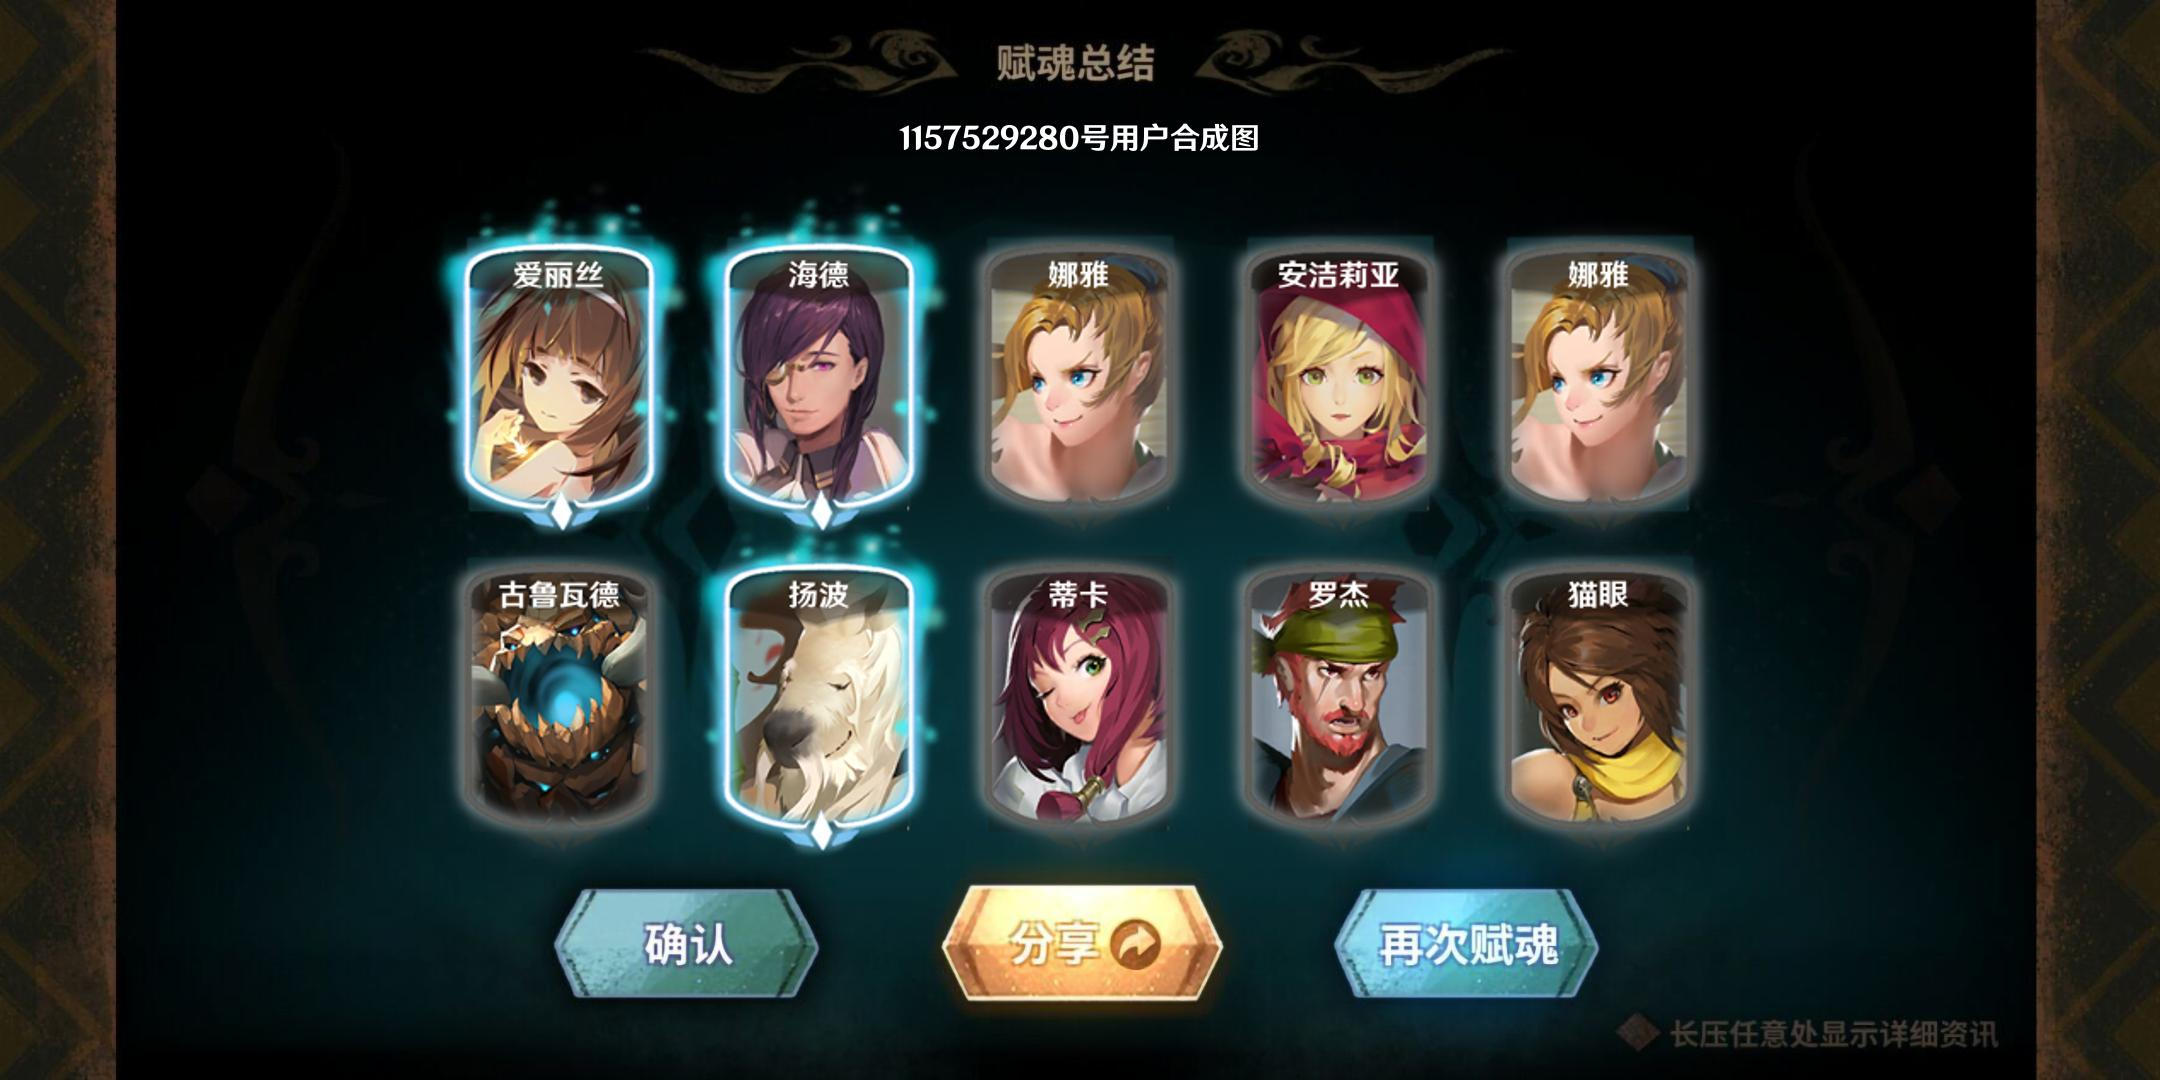
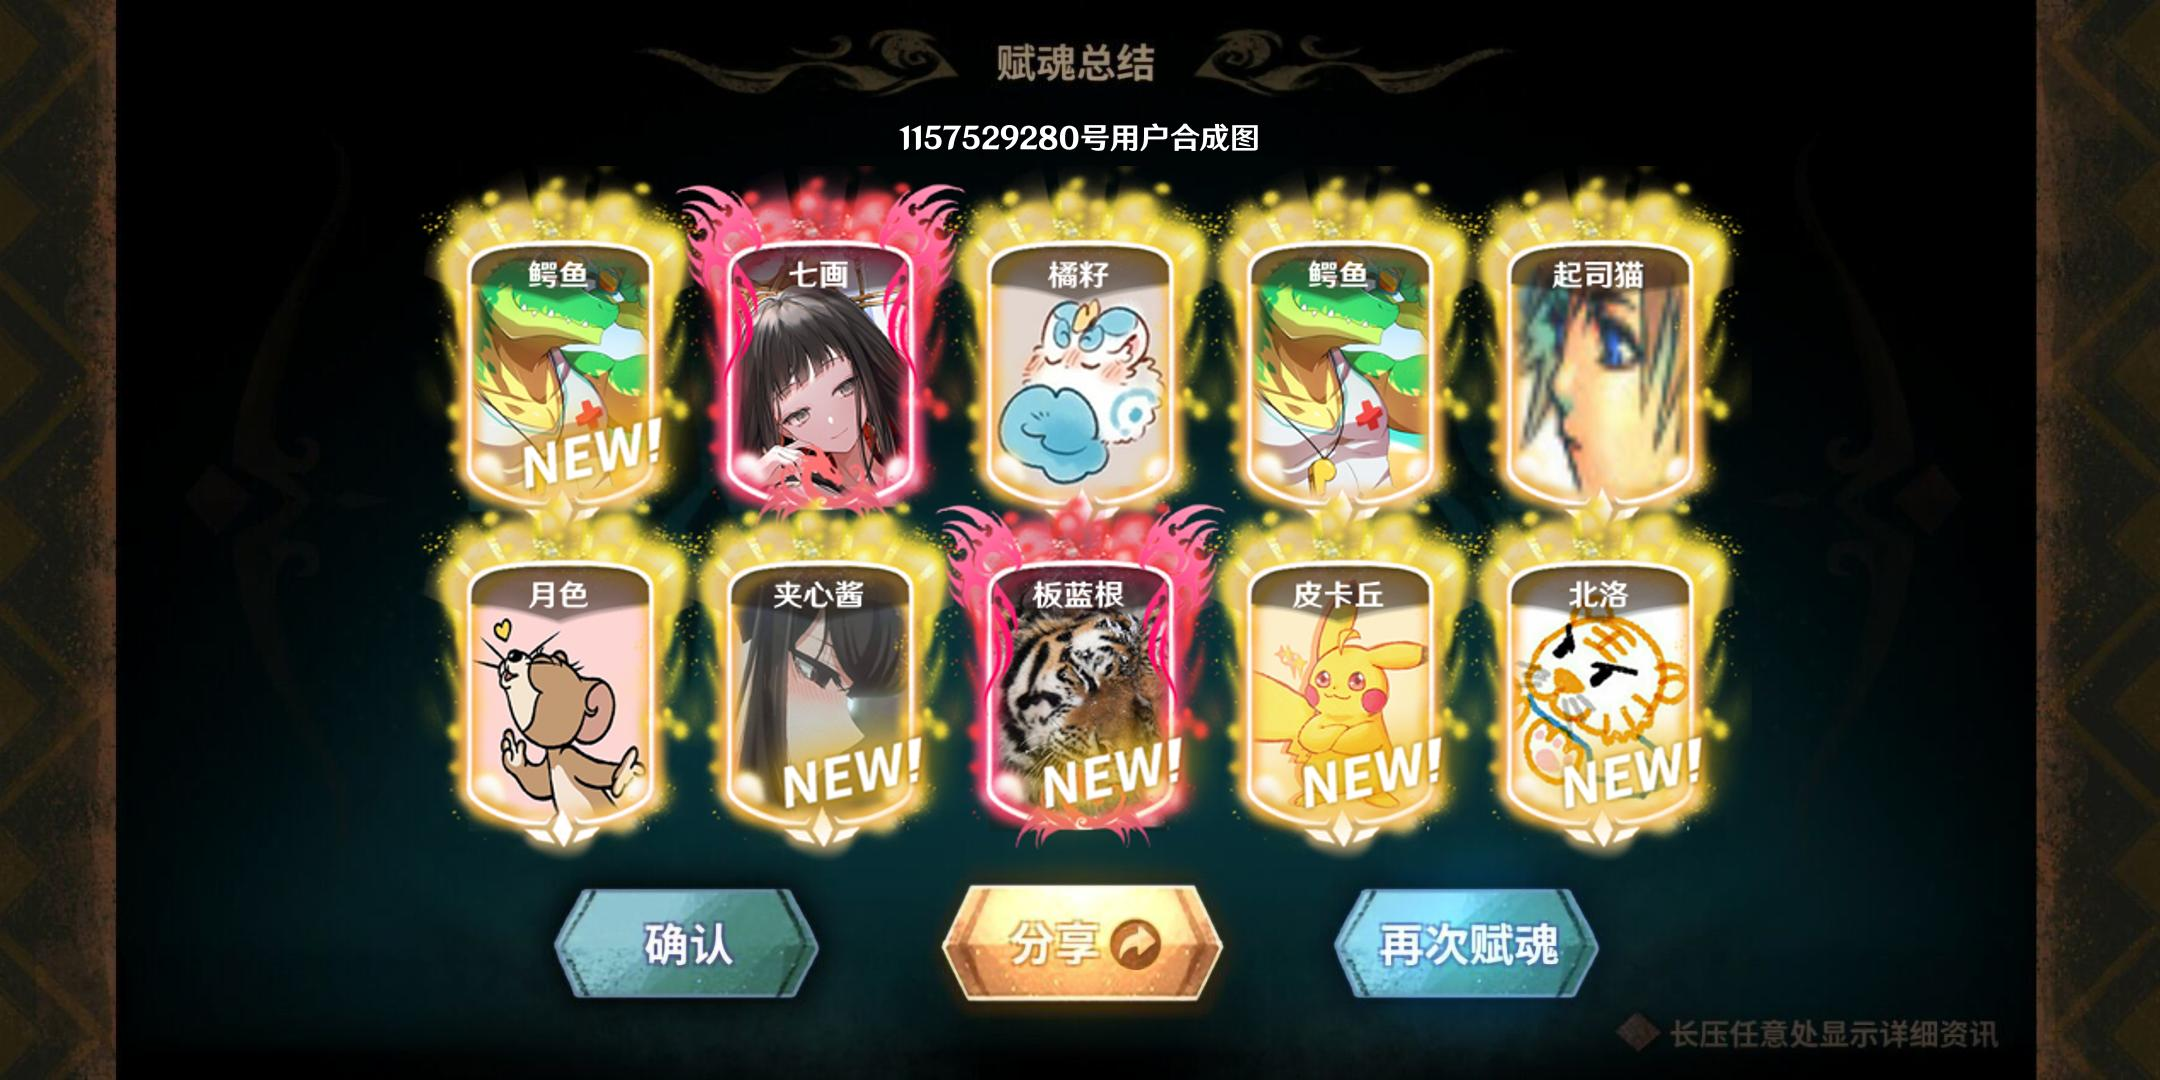
更新卡池指令：群友十连，更新21位群友

diff --git a/src/plugins/function/sdorica_draw/__init__.py b/src/plugins/function/sdorica_draw/__init__.py
@@ -2,7 +2,7 @@
 Author: 七画一只妖
 Date: 2022-03-16 18:36:16
 LastEditors: 七画一只妖
-LastEditTime: 2022-03-16 21:34:27
+LastEditTime: 2022-03-17 21:29:31
 Description: file content
 '''
 from .function_user import start
@@ -18,6 +18,7 @@ qy_sdorica_draw = on_command("起源十连")
 ss_sdorica_draw = on_command("盛夏十连")
 sd_sdorica_draw = on_command("限定十连")
 sf_sdorica_draw = on_command("首发十连")
+hp_sdorica_draw = on_command("-群友十连")
 
 
 @qy_sdorica_draw.handle()
@@ -82,3 +83,19 @@ async def _(bot:Bot,event: GroupMessageEvent):
             await sf_sdorica_draw.send(MessageSegment.image(re))
     else:
         await sf_sdorica_draw.send("出现了一点问题，请联系开发者七画")
+
+
+@hp_sdorica_draw.handle()
+async def _(bot:Bot,event: GroupMessageEvent):
+    if not is_level_S(event):
+        await hp_sdorica_draw.finish()
+    user_id = str(event.user_id)
+    re = start(user_id,"群友十连")
+    if re:
+        # await sf_sdorica_draw.send(re)
+        if "Error" in re:
+            await hp_sdorica_draw.send(re)
+        else:
+            await hp_sdorica_draw.send(MessageSegment.image(re))
+    else:
+        await hp_sdorica_draw.send("出现了一点问题，请联系开发者七画")

diff --git a/src/plugins/function/sdorica_draw/get_image.py b/src/plugins/function/sdorica_draw/get_image.py
@@ -2,7 +2,7 @@
 Author: 七画一只妖
 Date: 2021-09-08 21:19:15
 LastEditors: 七画一只妖
-LastEditTime: 2022-03-16 21:28:07
+LastEditTime: 2022-03-17 21:30:36
 Description: file content
 '''
 import os
@@ -38,6 +38,7 @@ def get_png_path(name):
     role_name_path1 = os.path.join(ICON_PATH, "1阶角色", str(name) + ".png")
     role_name_path0 = os.path.join(ICON_PATH, "0阶角色", str(name) + ".png")
     role_name_pathx = os.path.join(ICON_PATH, "特殊角色", str(name) + ".png")
+    role_name_pathxx = os.path.join(ICON_PATH, "群友角色", str(name) + ".png")
 
     if os.path.exists(role_name_path1):
         return role_name_path1
@@ -56,6 +57,9 @@ def get_png_path(name):
         
     if os.path.exists(role_name_pathx):
         return role_name_pathx
+
+    if os.path.exists(role_name_pathxx):
+        return role_name_pathxx
 
     raise FileNotFoundError(f"找不到 {name} 的图标，请检查图标是否存在")
 

diff --git a/src/plugins/function/sdorica_draw/function_pkg.py b/src/plugins/function/sdorica_draw/function_pkg.py
@@ -2,7 +2,7 @@
 Author: 七画一只妖
 Date: 2022-03-16 18:58:50
 LastEditors: 七画一只妖
-LastEditTime: 2022-03-16 20:34:46
+LastEditTime: 2022-03-17 21:46:20
 Description: file content
 '''
 import random
@@ -18,8 +18,8 @@ import copy
 FILE_PATH = os.path.dirname(os.path.abspath(__file__))
 
 # 概率设置
-GOLD = 20
-PURPLE = 70
+GOLD = 30
+PURPLE = 90
 BLUE = 200
 
 # 卡池映射
@@ -28,6 +28,7 @@ POOL_INFO_RANK = {
     "盛夏十连": ["mz角色", "2阶角色", "1阶角色", "0阶角色"],
     "限定十连": ["特殊角色", "2阶角色", "1阶角色", "0阶角色"],
     "首发十连": ["3阶角色", "2阶角色", "1阶角色", "0阶角色"],
+    "群友十连": ["群友角色", "2阶角色", "1阶角色", "0阶角色"],
 }
 
 # 导入pool_info.json
